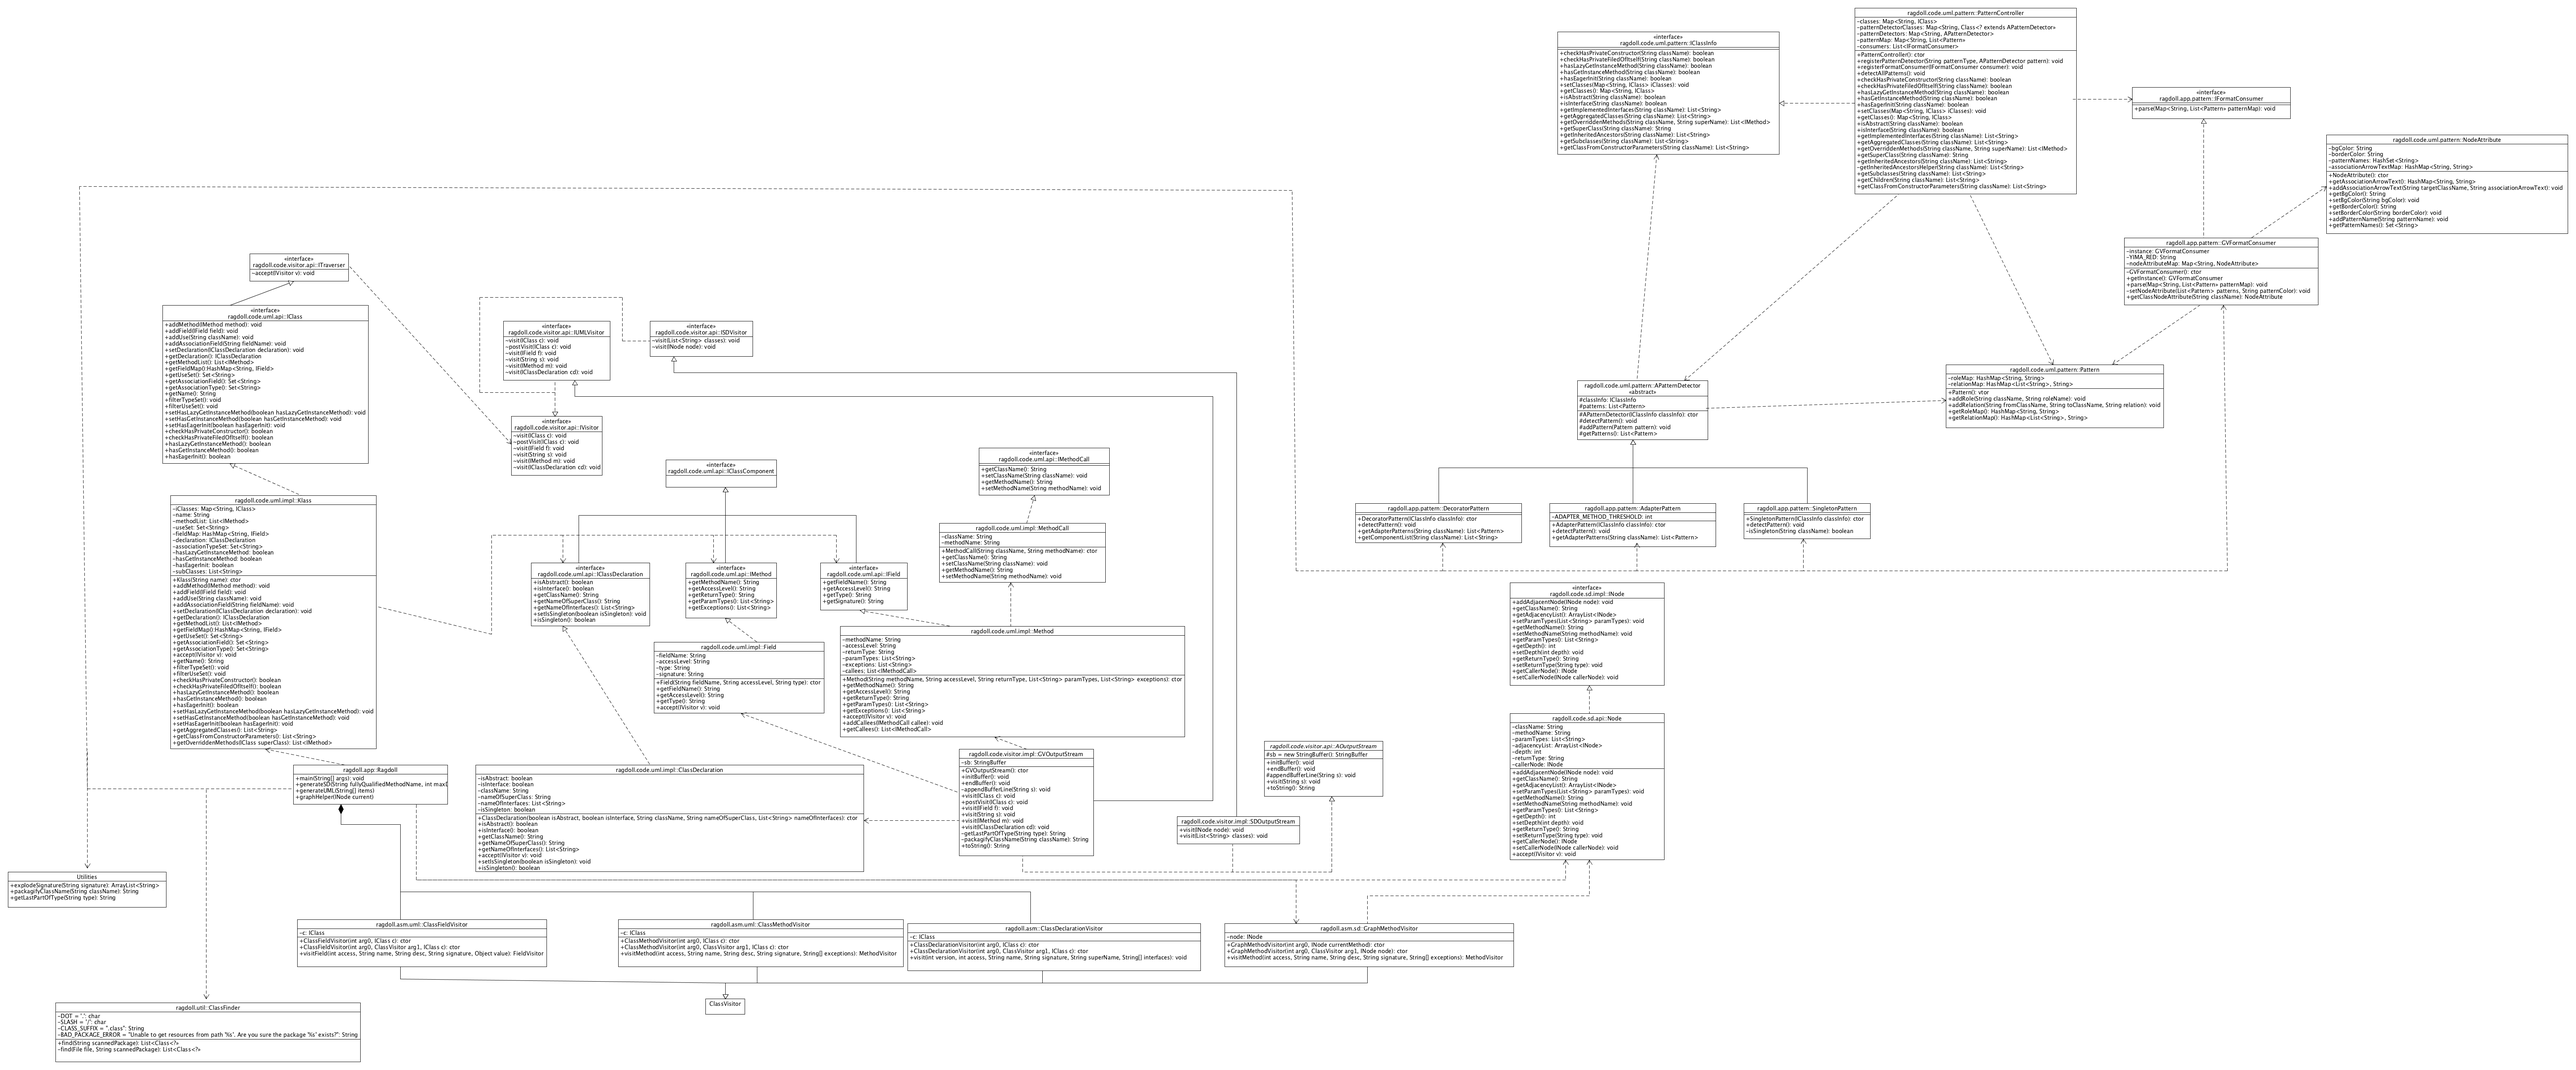
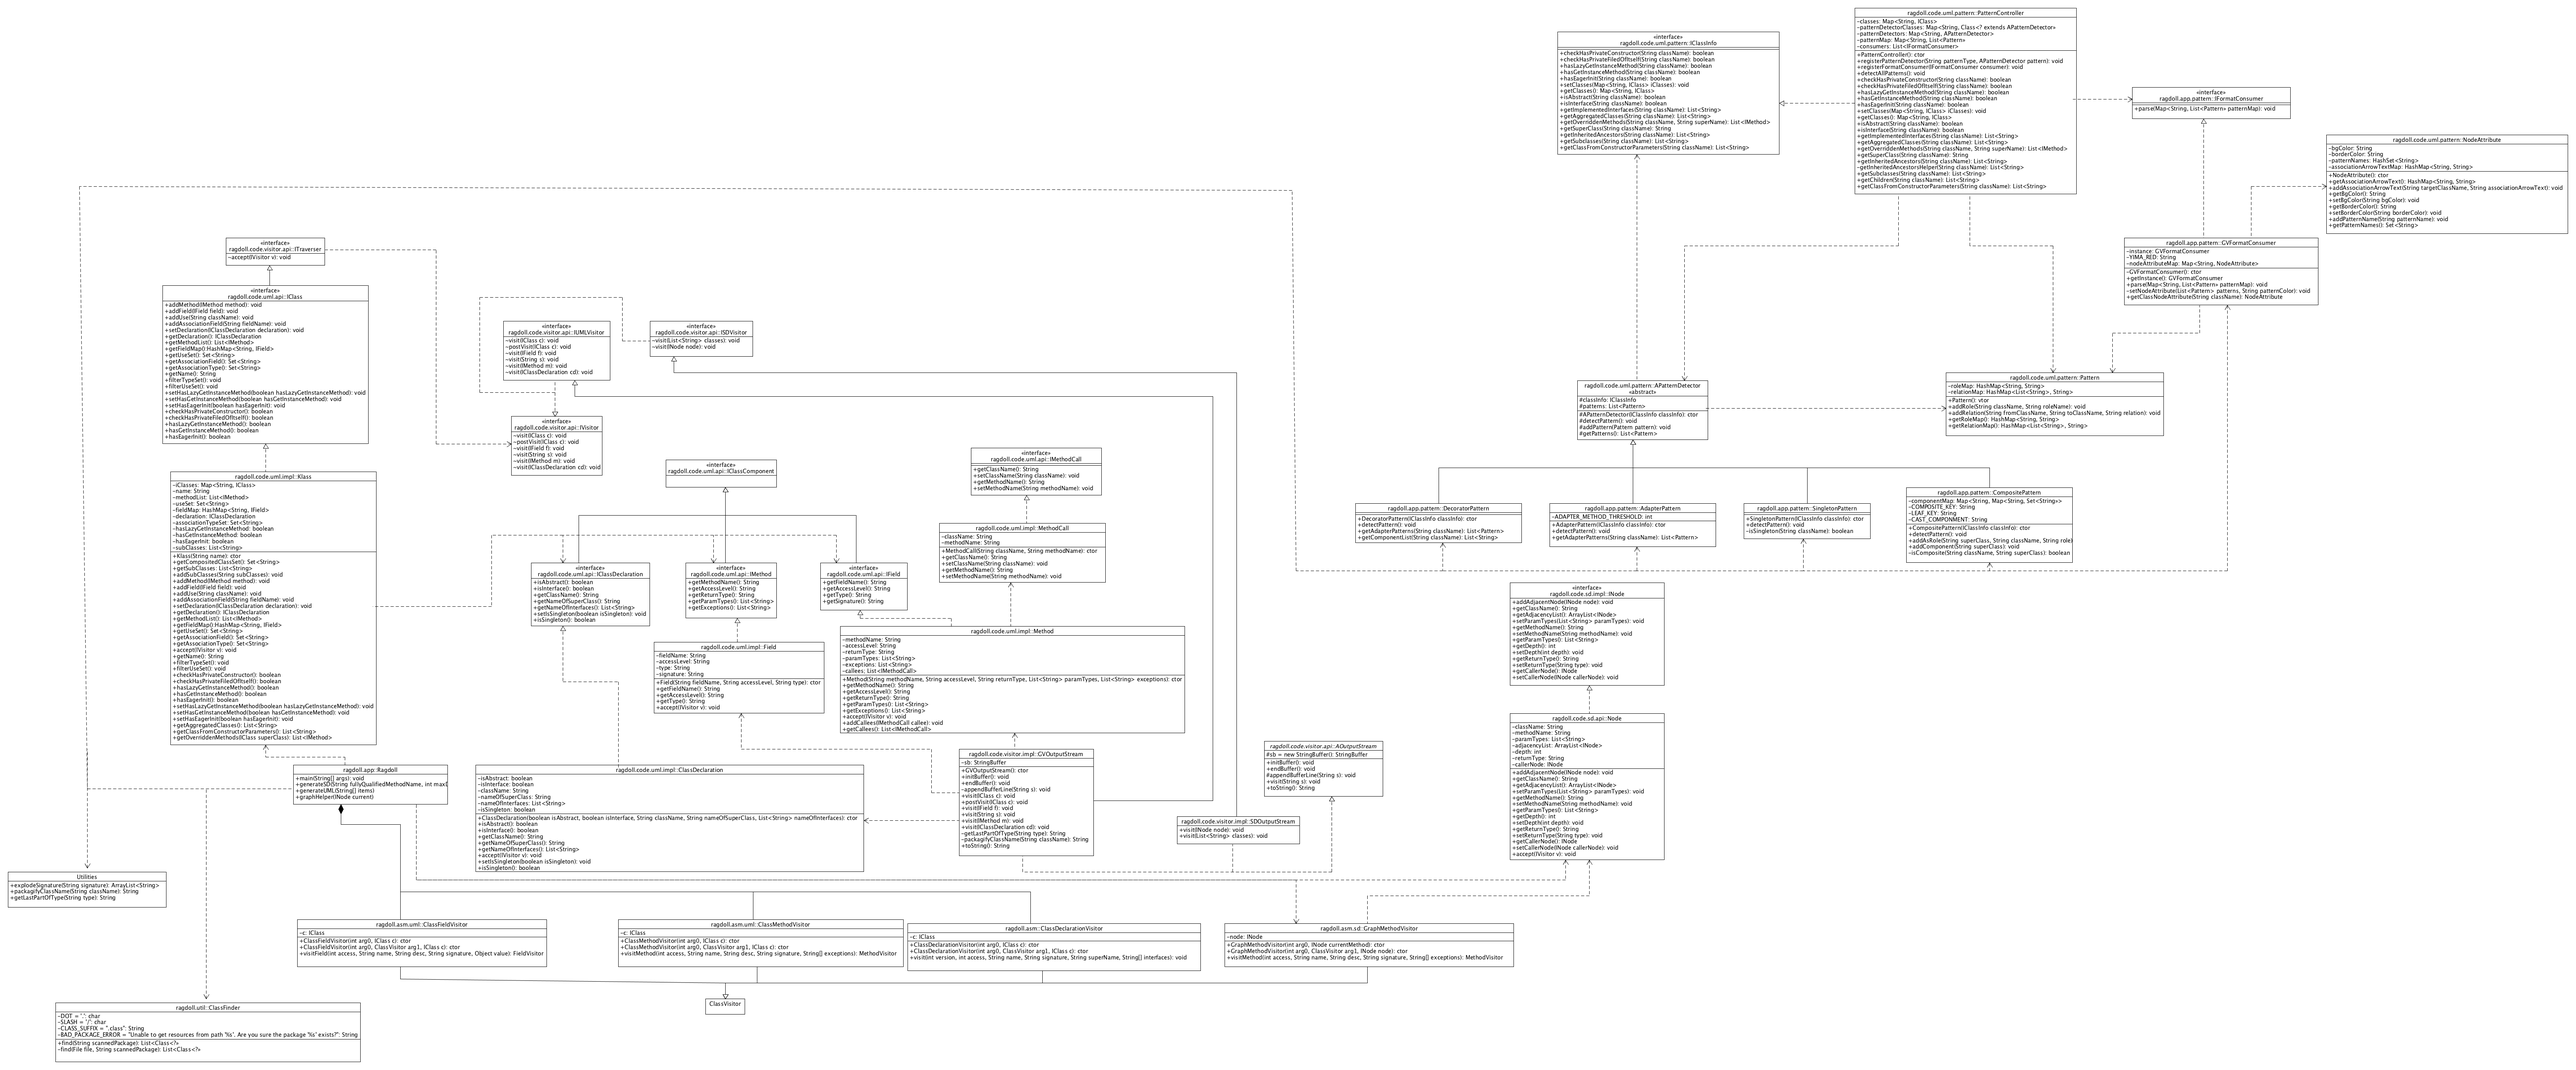
See who-did-what table.

diff --git a/src/ragdoll/app/pattern/CompositePattern.java b/src/ragdoll/app/pattern/CompositePattern.java
@@ -1,0 +1,105 @@
+package ragdoll.app.pattern;
+
+import ragdoll.code.uml.pattern.IClassInfo;
+
+import java.util.HashMap;
+import java.util.HashSet;
+import java.util.List;
+import java.util.Map;
+import java.util.Set;
+
+
+import ragdoll.code.uml.pattern.APatternDetector;
+import ragdoll.code.uml.pattern.Pattern;
+
+public class CompositePattern extends APatternDetector {
+	
+	
+	private Map<String, Map<String, Set<String>>> componentMap;
+	private static final String COMPOSITE_KEY = "composite";
+	private static final String LEAF_KEY = "leaf";
+	private static final String CAST_COMPONENT = "cast-component";
+
+	public CompositePattern(IClassInfo classInfo) {
+		super(classInfo);
+		this.componentMap = new HashMap<>();
+		detectPattern();
+	}
+
+	@Override
+	public void detectPattern() {
+		for (String className : classInfo.getClasses().keySet()) {
+			List<String> inheritedClases = classInfo.getInheritedAncestors(className);
+			for (String superClass : inheritedClases) {
+				if (isComposite(className, superClass)) {
+					if (componentMap.containsKey(superClass)) {
+						addAsRole(superClass, className, COMPOSITE_KEY);
+					} else {
+						addComponent(superClass);
+						addAsRole(superClass, className, COMPOSITE_KEY);
+					}
+				} else {
+					if (componentMap.containsKey(superClass)) {
+						addAsRole(superClass, className, LEAF_KEY);
+					} else {
+						addComponent(superClass);
+						addAsRole(superClass, className, LEAF_KEY);
+					}
+				}
+			}
+		}
+
+		for (String componentClass : componentMap.keySet()) {
+			Map<String, Set<String>> roleMap = componentMap.get(componentClass);
+			Set<String> compositeSet = roleMap.get(COMPOSITE_KEY);
+			Set<String> leafSet = roleMap.get(LEAF_KEY);
+			Set<String> castComponentSet = roleMap.get(CAST_COMPONENT);
+			if (!compositeSet.isEmpty()) {
+				for (String leafClass : leafSet) {
+					List<String> children = classInfo.getChildren(leafClass);
+					for (String childClass : children) {
+						if (compositeSet.contains(childClass)) {
+							castComponentSet.add(leafClass);
+							leafSet.remove(leafClass);
+							break;
+						}
+					}
+				}
+
+				Pattern pattern = new Pattern();
+				pattern.addRole(componentClass, "component");
+				for (String castComponentClass : castComponentSet) {
+					pattern.addRole(castComponentClass, "component");
+				}
+				for (String compositeClass : compositeSet) {
+					pattern.addRole(compositeClass, "composite");
+				}
+				for (String leafClass : leafSet) {
+					pattern.addRole(leafClass, "leaf");
+				}
+				addPattern(pattern);
+			}
+		}
+	}
+
+	private void addAsRole(String superClass, String className, String role) {
+		Map<String, Set<String>> roleMap = componentMap.get(superClass);
+		Set<String> roleSet = roleMap.get(role);
+		roleSet.add(className);
+		roleMap.put(role, roleSet);
+		componentMap.put(superClass, roleMap);
+	}
+
+	private void addComponent(String superClass) {
+		Map<String, Set<String>> roleMap = new HashMap<>();
+		roleMap.put(COMPOSITE_KEY, new HashSet<String>());
+		roleMap.put(LEAF_KEY, new HashSet<String>());
+		roleMap.put(CAST_COMPONENT, new HashSet<String>());
+		componentMap.put(superClass, roleMap);
+	}
+
+	private boolean isComposite(String className, String superClass) {
+		return classInfo.getCompositedClassSet(className).contains(superClass);
+	}
+
+}

diff --git a/src/ragdoll/code/uml/api/IClass.java b/src/ragdoll/code/uml/api/IClass.java
@@ -7,14 +7,16 @@ import java.util.Set;
 import ragdoll.code.visitor.api.ITraverser;
 
 public interface IClass extends ITraverser {
+	public Set<String> getCompositedClassSet();
+
 	public List<String> getSubClasses();
 
 	public void addSubClasses(String subClasses);
-	
+
 	public void addMethod(IMethod method);
 
 	public void addField(IField field);
-	
+
 	public void addUse(String className); // M2
 
 	public void setDeclaration(IClassDeclaration declaration);
@@ -24,35 +26,35 @@ public interface IClass extends ITraverser {
 	public List<IMethod> getMethodList();
 
 	public HashMap<String, IField> getFieldMap();
-	
-	public Set<String> getUseSet(); //M2
-	
+
+	public Set<String> getUseSet(); // M2
+
 	public Set<String> getAssociationType(); // M2
-	
+
 	public void filterUseSet(); // M2
-	
+
 	public void filterTypeSet(); // M2
 
 	public String getName();
-	
+
 	public void setHasLazyGetInstanceMethod(boolean hasLazyGetInstanceMethod);
 
 	public void setHasGetInstanceMethod(boolean hasGetInstanceMethod);
 
 	public void setHasEagerInit(boolean hasEagerInit);
-	
+
 	public boolean checkHasPrivateConstructor();
-	
+
 	public boolean checkHasPrivateFiledOfItself();
-	
+
 	public boolean hasLazyGetInstanceMethod();
-	
+
 	public boolean hasGetInstanceMethod();
-	
+
 	public boolean hasEagerInit();
-	
+
 	public List<String> getAggregatedClasses();
-	
+
 	public List<String> getClassFromConstructorParameters();
 
 	public List<IMethod> getOverriddenMethods(IClass superClass);

diff --git a/src/ragdoll/app/pattern/GVFormatConsumer.java b/src/ragdoll/app/pattern/GVFormatConsumer.java
@@ -43,22 +43,28 @@ public class GVFormatConsumer implements IFormatConsumer {
 				setNodeAttribute(patterns, YIMA_RED);
 			} else if (patternType.toLowerCase().equals("decorator")) {
 				setNodeAttribute(patterns, "green");
+			} else if (patternType.toLowerCase().equals("composite")) {
+				setNodeAttribute(patterns, "yellow");
 			}
 		}
 	}
-	
+
 	private void setNodeAttribute(List<Pattern> patterns, String patternColor) {
-		for(Pattern pattern : patterns){
+		for (Pattern pattern : patterns) {
 			for (String className : pattern.getRoleMap().keySet()) {
 				String role = pattern.getRoleMap().get(className);
 				NodeAttribute node = getClassNodeAttribute(className);
 				node.setBgColor(patternColor);
 				node.addPatternName("«" + role + "»");
 			}
-			List<String> fromTo = pattern.getRelationMap().keySet().iterator().next();
-			String relation = pattern.getRelationMap().get(fromTo);
-			NodeAttribute node = getClassNodeAttribute(fromTo.get(0));
-			node.addAssociationArrowText(fromTo.get(1), relation);
+			try {
+				List<String> fromTo = pattern.getRelationMap().keySet().iterator().next();
+				String relation = pattern.getRelationMap().get(fromTo);
+				NodeAttribute node = getClassNodeAttribute(fromTo.get(0));
+				node.addAssociationArrowText(fromTo.get(1), relation);
+			} catch (Exception e) {
+
+			}
 		}
 	}
 

diff --git a/src/ragdoll/code/uml/pattern/IClassInfo.java b/src/ragdoll/code/uml/pattern/IClassInfo.java
@@ -2,11 +2,16 @@ package ragdoll.code.uml.pattern;
 
 import java.util.List;
 import java.util.Map;
+import java.util.Set;
 
 import ragdoll.code.uml.api.IClass;
 import ragdoll.code.uml.api.IMethod;
 
 public interface IClassInfo {
+	public List<String> getChildren(String className);
+
+	public Set<String> getCompositedClassSet(String className);
+
 	public boolean checkHasPrivateConstructor(String className);
 
 	public boolean checkHasPrivateFiledOfItself(String className);
@@ -28,14 +33,14 @@ public interface IClassInfo {
 	public List<String> getImplementedInterfaces(String className);
 
 	public List<String> getAggregatedClasses(String className);
-	
+
 	public List<IMethod> getOverriddenMethods(String className, String superName);
 
 	public String getSuperClass(String className);
-	
+
 	public List<String> getInheritedAncestors(String className);
-	
+
 	public List<String> getSubclasses(String className);
-	
+
 	public List<String> getClassFromConstructorParameters(String className);
 }

diff --git a/src/ragdoll/app/Ragdoll.java b/src/ragdoll/app/Ragdoll.java
@@ -13,6 +13,7 @@ import org.objectweb.asm.ClassVisitor;
 import org.objectweb.asm.Opcodes;
 
 import ragdoll.app.pattern.AdapterPattern;
+import ragdoll.app.pattern.CompositePattern;
 import ragdoll.app.pattern.DecoratorPattern;
 import ragdoll.app.pattern.GVFormatConsumer;
 import ragdoll.app.pattern.IFormatConsumer;
@@ -152,6 +153,8 @@ public class Ragdoll {
 		patternController.registerPatternDetector("adapter", adapterPattern);
 		APatternDetector decoratorPattern = new DecoratorPattern(patternController);
 		patternController.registerPatternDetector("decorator", decoratorPattern);
+		APatternDetector compositePattern = new CompositePattern(patternController);
+		patternController.registerPatternDetector("composite", compositePattern);
 
 		IFormatConsumer gvFormatConsumer = GVFormatConsumer.getInstance();
 		patternController.registerFormatConsumer(gvFormatConsumer);

diff --git a/src/ragdoll/code/uml/impl/Klass.java b/src/ragdoll/code/uml/impl/Klass.java
@@ -42,6 +42,18 @@ public class Klass implements IClass {
 		this.subClasses = new ArrayList<>();
 	}
 
+	public Set<String> getCompositedClassSet() {
+		Set<String> compostedClassSet = new HashSet<>();
+		for (String fieldName : fieldMap.keySet()) {
+			IField field = fieldMap.get(fieldName);
+			ArrayList<String> tempClassArray = Utilities.explodeSignature(field.getSignature());
+			if (!tempClassArray.isEmpty()) {
+				compostedClassSet.addAll(tempClassArray.subList(1, tempClassArray.size()));
+			}
+		}
+		return compostedClassSet;
+	}
+
 	public List<String> getSubClasses() {
 		return subClasses;
 	}

diff --git a/src/ragdoll/code/uml/pattern/PatternController.java b/src/ragdoll/code/uml/pattern/PatternController.java
@@ -5,6 +5,7 @@ import java.util.ArrayList;
 import java.util.HashMap;
 import java.util.List;
 import java.util.Map;
+import java.util.Set;
 
 import ragdoll.app.pattern.IFormatConsumer;
 import ragdoll.code.uml.api.IClass;
@@ -149,5 +150,9 @@ public class PatternController implements IClassInfo {
 	
 	public List<String> getClassFromConstructorParameters(String className) {
 		return classes.get(className).getClassFromConstructorParameters();
+	}
+	
+	public Set<String> getCompositedClassSet(String className) {
+		return classes.get(className).getCompositedClassSet();
 	}
 }

diff --git a/src/ragdoll/util/Utilities.java b/src/ragdoll/util/Utilities.java
@@ -5,6 +5,9 @@ import java.util.List;
 
 public class Utilities {
 	public static ArrayList<String> explodeSignature(String signature) {
+		if (signature == null) {
+			return new ArrayList<>();
+		}
 		String[] tempArr = signature.split("<|>|;");
 		ArrayList<String> result = new ArrayList<>();
 		for (String s : tempArr) {

diff --git a/README.md b/README.md
@@ -55,6 +55,11 @@ In Milestone 5, we restructured the pattern detection design. By using our new d
 * Register them in client driver and PatternController
 *Note*: The internal data structure for storing Pattern instances is `Pattern`.
 
+#### Milestone 6
+In Milestone 6, we use the same design pattern that we refactored since Milestone 5. We are proud to say that we benefit a lot from the change we made. Here's what we changed:
+* Create a CompositePattern that extends APatternDetector
+* Register CompositePattern in client driver and PatternController
+
 ### Design Principles
 The project follows the following design principles:
 * *Identify the aspects of your application that vary and separate them from what stays the same.* According to the above discussion, we separated the read-in functionality from the write-out functionality.
@@ -149,6 +154,11 @@ The project follows the following design principles:
 | Sasha          | Debug the issues related to not recognizing FilterInput/OutputStream.                                                 | 5m     |
 | yangh1         | Fixed the issues detected by Sasha                                                                                    | 5m     |
 | zxqdx          | Added tests for FilterInputStream.                                                                                    | 5m     |
+| Sasha          | Added pattern detection logic for Composite Pattern.                                                                  | 15m    |
+| yangh1         | Added consumer logic for Composite Pattern                                                                            | 15m    |
+| zxqdx          | Debugged several issues related to the pattern detection logic in detecting components.                               | 10m    |
+| yangh1         | Manually created & generated UML diagram.                                                                             | 10m    |
+| zxqdx          | Documentation for Milestone 6.                                                                                        | 5m     |
 
 ## Usage / Instructions
 ### Before we start
@@ -237,10 +247,10 @@ This will generate a png image file `test.png` (the SD diagram) in your `demo/` 
 ![UML Diagram](/img/Lab1-3UMLGenerated.png "")
 
 ### Project
-#### Manually created UML diagram V6
+#### Manually created UML diagram V7
 ![UML Diagram](/img/ProjectUMLManually.png "")
 
-#### Generated UML diagram V6
+#### Generated UML diagram V7
 ![UML Diagram](/img/ProjectUMLGenerated.png "")
 
 #### Manually created SD diagram V1
@@ -272,3 +282,11 @@ This will generate a png image file `test.png` (the SD diagram) in your `demo/` 
 ### TextEditDecorator
 #### Generated UML diagram V1
 ![UML Diagram](/img/TextEditDecoratorUMLGenerated.png "")  
+
+### Composite Pattern in javax.swing
+#### Generated UML diagram V1
+![UML Diagram](/img/SwingUMLGenerated.png "")  
+
+### Composite Pattern in java.awt
+#### Generated UML diagram V1
+![UML Diagram](/img/AwtUMLGenerated.png "")  
